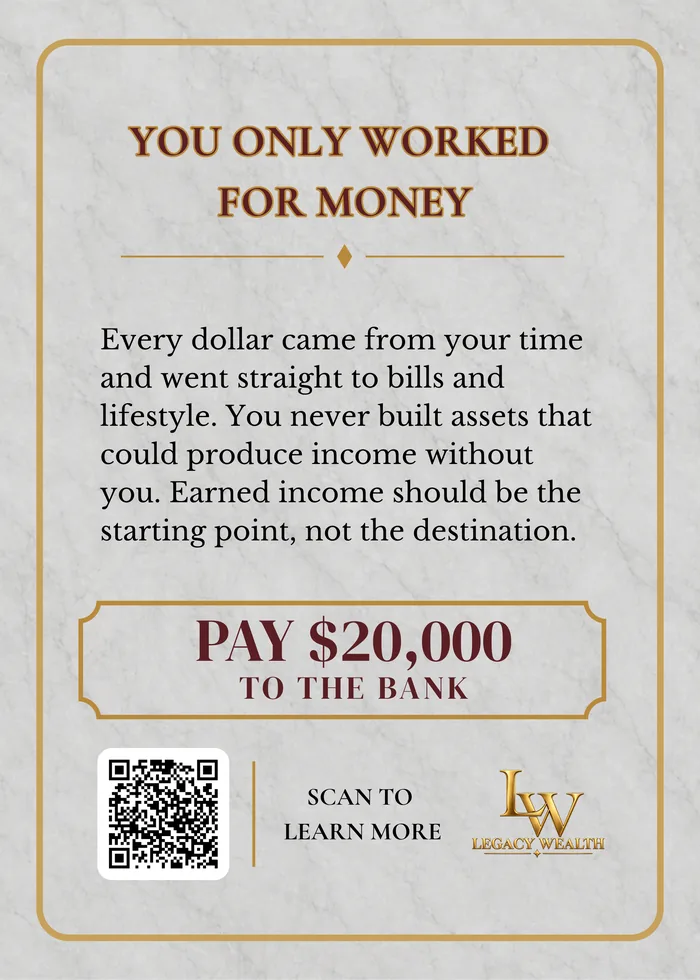
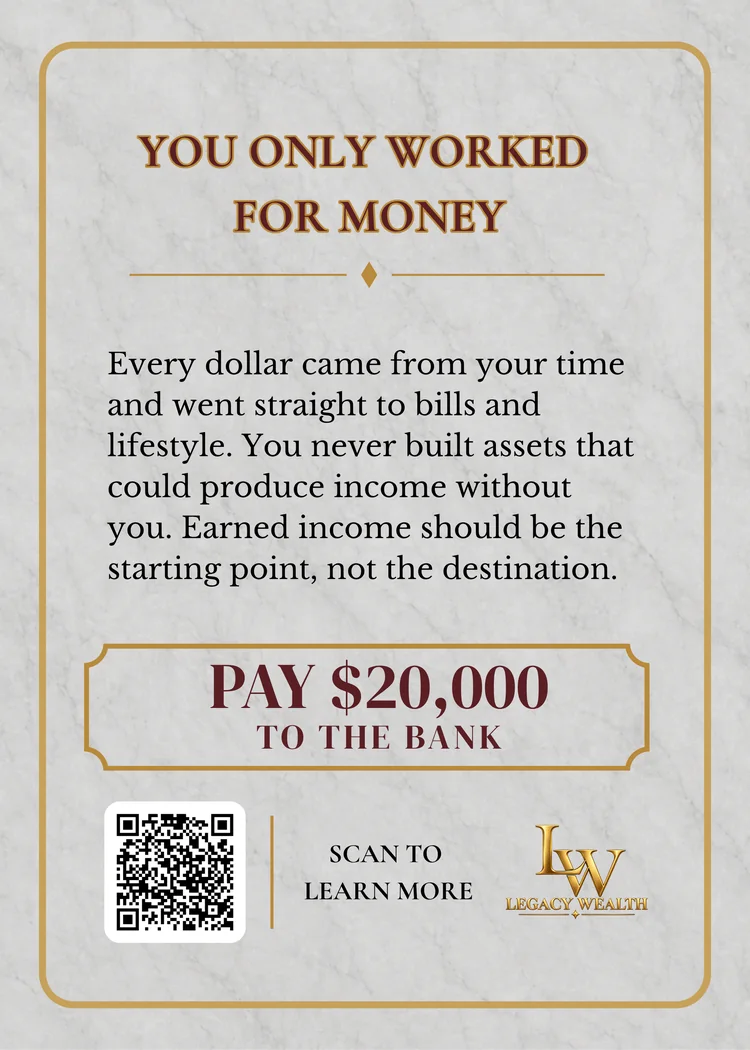
Let people actually examine the components
The components were on the page but too small to read. Sixteen cards at
212px tells a visitor a card exists; it does not tell them what is on it,
which is the whole reason they are on the page.

Cards, notes and the board now open in a lightbox at a size you can read.
Arrow keys and the on-screen arrows move within a family, Escape closes,
focus is trapped while it is open and returns to the thumbnail afterwards,
and the page behind it stops scrolling. Cards are re-exported at 750px —
the asset cards' native width — so the viewer never upscales any of them.

Also on the signup:

- A countdown to November 8th, computed from the visitor's clock and rolled
  forward a year once the date passes, so the page never counts toward a
  date that has already gone by.

- Floating labels on every field, a focus ring in gold, and error styling
  that clears as soon as the person starts fixing it rather than sitting
  there accusing them.

- The confirmation is a panel rather than a text swap: the monogram, their
  first name, and what happens next. Signing up should feel like being let
  in, not like a form clearing.

No signup counter and no spots-remaining bar. Both would have to be
invented, and invented scarcity is a strange thing to put on a page about
financial honesty.

Claude-Session: https://claude.ai/code/session_014BbJfV6pVH9cuG696iWvXi

diff --git a/index.html b/index.html
@@ -347,6 +347,116 @@ a{color:inherit;}
   .box{animation:none;}
   .cards img:hover,.notes img:hover,.token:hover img{transform:none;}
 }
+
+/* ==========================================================================
+   Component lightbox
+   ========================================================================== */
+.zoomable{cursor:zoom-in;}
+.lb{
+  position:fixed;inset:0;z-index:100;display:none;place-items:center;
+  background:rgba(4,4,5,.95);-webkit-backdrop-filter:blur(8px);backdrop-filter:blur(8px);
+  padding:clamp(16px,4vw,48px);
+}
+.lb.open{display:grid;}
+.lb-stage{position:relative;display:grid;place-items:center;gap:18px;max-width:100%;max-height:100%;}
+.lb-stage img{
+  max-width:min(92vw,var(--lb-max,520px));max-height:78vh;width:auto;height:auto;
+  border-radius:5px;box-shadow:0 40px 90px -30px rgba(0,0,0,.95),0 0 0 1px var(--gold-line);
+  animation:lbIn .34s cubic-bezier(.2,.7,.3,1) both;
+}
+@keyframes lbIn{from{opacity:0;transform:scale(.965) translateY(10px);}to{opacity:1;}}
+.lb-cap{text-align:center;max-width:46ch;}
+.lb-cap b{display:block;font-family:var(--serif);font-size:19px;font-weight:600;color:var(--paper);}
+.lb-cap span{display:block;margin-top:5px;font-size:10.5px;letter-spacing:.2em;text-transform:uppercase;color:var(--paper-faint);}
+.lb-btn{
+  position:absolute;top:50%;transform:translateY(-50%);width:50px;height:50px;display:grid;place-items:center;
+  background:rgba(10,10,11,.8);border:1px solid var(--gold-line);border-radius:50%;
+  color:var(--gold-soft);cursor:pointer;transition:background-color .25s,border-color .25s;
+}
+.lb-btn:hover{background:rgba(201,162,76,.16);border-color:var(--gold-soft);}
+.lb-prev{left:max(-70px,-8vw);} .lb-next{right:max(-70px,-8vw);}
+.lb-close{
+  position:fixed;top:22px;right:22px;width:46px;height:46px;display:grid;place-items:center;
+  background:transparent;border:1px solid var(--gold-line);border-radius:50%;
+  color:var(--gold-soft);cursor:pointer;font-size:20px;line-height:1;transition:background-color .25s,border-color .25s;
+}
+.lb-close:hover{background:rgba(201,162,76,.16);border-color:var(--gold-soft);}
+.lb-count{position:fixed;bottom:26px;left:50%;transform:translateX(-50%);
+  font-size:10.5px;letter-spacing:.22em;text-transform:uppercase;color:var(--paper-faint);}
+@media (max-width:760px){
+  .lb-prev{left:2px;} .lb-next{right:2px;}
+  .lb-btn{width:42px;height:42px;}
+  .lb-stage img{max-height:66vh;}
+}
+
+/* ==========================================================================
+   Countdown
+   ========================================================================== */
+.countdown{display:flex;justify-content:center;gap:clamp(18px,4vw,40px);margin:0 0 34px;}
+.cd-unit{text-align:center;min-width:62px;}
+.cd-num{
+  display:block;font-family:var(--serif);font-size:clamp(30px,4.4vw,46px);font-weight:600;line-height:1;
+  background:var(--gold-grad);-webkit-background-clip:text;background-clip:text;color:transparent;
+  font-variant-numeric:tabular-nums;
+}
+.cd-lab{display:block;margin-top:9px;font-size:9.5px;font-weight:600;letter-spacing:.22em;
+  text-transform:uppercase;color:var(--paper-faint);}
+.cd-sep{font-family:var(--serif);font-size:clamp(24px,3.4vw,34px);color:var(--gold-dim);align-self:flex-start;line-height:1.1;}
+.countdown[hidden]{display:none;}
+
+/* ==========================================================================
+   Field craft — floating labels
+   ========================================================================== */
+.field{position:relative;}
+.field input{
+  width:100%;padding:24px 16px 10px;font-size:15px;font-family:var(--sans);color:var(--paper);
+  background:rgba(8,8,9,.62);-webkit-backdrop-filter:blur(10px);backdrop-filter:blur(10px);
+  border:1px solid var(--gold-line);border-radius:2px;outline:none;
+  transition:border-color .25s,box-shadow .25s,background-color .25s;
+}
+.field input:focus{border-color:var(--gold-soft);background:rgba(8,8,9,.78);
+  box-shadow:0 0 0 3px rgba(201,162,76,.13);}
+.field input::placeholder{color:transparent;}
+.field label{
+  position:absolute;left:17px;top:17px;pointer-events:none;
+  font-size:15px;color:var(--paper-faint);
+  transition:top .2s cubic-bezier(.2,.7,.3,1),font-size .2s,letter-spacing .2s,color .2s;
+}
+.field input:focus + label,
+.field input:not(:placeholder-shown) + label{
+  top:8px;font-size:9.5px;font-weight:600;letter-spacing:.17em;text-transform:uppercase;color:var(--gold-soft);
+}
+.field.bad input{border-color:#A6524C;}
+
+/* shimmer across the solid button */
+.btn-solid{position:relative;overflow:hidden;}
+.btn-solid::after{
+  content:"";position:absolute;top:0;left:-130%;width:55%;height:100%;pointer-events:none;
+  background:linear-gradient(100deg,transparent,rgba(255,255,255,.45),transparent);
+  transition:left .65s cubic-bezier(.3,.7,.3,1);
+}
+.btn-solid:hover::after{left:135%;}
+.btn-solid[disabled]::after{display:none;}
+
+/* ==========================================================================
+   Confirmation panel
+   ========================================================================== */
+.form-ok{padding:34px 30px;border:1px solid var(--gold-line);border-radius:3px;text-align:center;
+  background:linear-gradient(170deg,rgba(201,162,76,.09),rgba(8,8,9,.55) 62%);
+  box-shadow:inset 0 1px 0 rgba(232,212,154,.16),0 30px 60px -34px rgba(0,0,0,.9);
+  animation:okIn .5s cubic-bezier(.2,.7,.3,1) both;}
+@keyframes okIn{from{opacity:0;transform:translateY(14px);}to{opacity:1;}}
+.form-ok img{width:58px;height:auto;margin:0 auto 18px;opacity:.95;}
+.form-ok h3{font-family:var(--serif);font-size:27px;font-weight:600;margin:0 0 6px;
+  background:var(--gold-grad);-webkit-background-clip:text;background-clip:text;color:transparent;}
+.form-ok .ok-name{font-size:10.5px;letter-spacing:.22em;text-transform:uppercase;color:var(--gold-soft);margin:0 0 16px;}
+.form-ok p{font-size:14.5px;line-height:1.72;color:var(--paper-dim);margin:0;}
+.form-ok .ok-next{margin-top:20px;padding-top:18px;border-top:1px solid var(--gold-faint);
+  font-size:11px;letter-spacing:.14em;text-transform:uppercase;color:var(--paper-faint);line-height:1.9;}
+@media (prefers-reduced-motion:reduce){
+  .lb-stage img,.form-ok{animation:none;}
+  .btn-solid::after{display:none;}
+}
 </style>
 </head>
 <body>
@@ -412,18 +522,28 @@ a{color:inherit;}
           </div>
 
           <div class="more-fields" id="heroMore" hidden>
-            <input type="text" name="name" placeholder="Full name" autocomplete="name" required>
-            <input type="tel" name="phone" placeholder="Phone number (optional)" autocomplete="tel" inputmode="tel">
+            <div class="field">
+              <input type="text" id="heroName" name="name" placeholder=" " autocomplete="name" required>
+              <label for="heroName">Full name</label>
+            </div>
+            <div class="field">
+              <input type="tel" id="heroPhone" name="phone" placeholder=" " autocomplete="tel" inputmode="tel">
+              <label for="heroPhone">Phone number (optional)</label>
+            </div>
             <p class="optional">We only use your number for launch-day updates.</p>
-            <button type="button" class="btn btn-solid" data-role="finish">Confirm My Spot</button>
+            <button type="button" class="btn btn-solid" data-role="finish" data-label="Confirm My Spot">Confirm My Spot</button>
           </div>
 
           <p class="form-error" id="heroError" role="alert" hidden></p>
         </form>
 
         <div class="form-ok" id="heroOk">
+          <img src="assets/images/logo-monogram.webp" alt="" width="320" height="317">
           <h3>You're on the list</h3>
-          <p>Thank you for joining. We'll email you the moment Legacy Wealth opens for preorder, and you'll be first in line.</p>
+          <p class="ok-name" data-ok-name></p>
+          <p>Your place is held. We'll email you the moment Legacy Wealth opens for
+            preorder on November 8th, and you'll be first in line.</p>
+          <p class="ok-next">Watch your inbox &middot; Add us to your contacts</p>
         </div>
 
         <p class="caps-note">Be the first to know. A brighter financial future starts at home.</p>
@@ -733,6 +853,16 @@ a{color:inherit;}
       <p class="eyebrow">Join the Waitlist</p>
       <h2 class="display gilt">Be First in Line</h2>
       <div class="rule" style="margin-left:auto;margin-right:auto;"></div>
+      <div class="countdown" id="countdown" hidden aria-label="Time until preorders open">
+        <div class="cd-unit"><b class="cd-num" data-cd="days">--</b><span class="cd-lab">Days</span></div>
+        <span class="cd-sep">:</span>
+        <div class="cd-unit"><b class="cd-num" data-cd="hours">--</b><span class="cd-lab">Hours</span></div>
+        <span class="cd-sep">:</span>
+        <div class="cd-unit"><b class="cd-num" data-cd="minutes">--</b><span class="cd-lab">Minutes</span></div>
+        <span class="cd-sep">:</span>
+        <div class="cd-unit"><b class="cd-num" data-cd="seconds">--</b><span class="cd-lab">Seconds</span></div>
+      </div>
+
       <p class="urgency">Preorders open November 8th. Join the waitlist now to be notified the moment it
         goes live — and be first in line.</p>
 
@@ -742,9 +872,18 @@ a{color:inherit;}
             <label>Company <input name="company" tabindex="-1" autocomplete="off"></label>
           </div>
           <div class="more-fields" style="margin-top:0;">
-            <input type="text" name="name" placeholder="Full name" autocomplete="name" required>
-            <input type="email" name="email" placeholder="Email address" autocomplete="email" required>
-            <input type="tel" name="phone" placeholder="Phone number (optional)" autocomplete="tel" inputmode="tel">
+            <div class="field">
+              <input type="text" id="mainName" name="name" placeholder=" " autocomplete="name" required>
+              <label for="mainName">Full name</label>
+            </div>
+            <div class="field">
+              <input type="email" id="mainEmail" name="email" placeholder=" " autocomplete="email" required>
+              <label for="mainEmail">Email address</label>
+            </div>
+            <div class="field">
+              <input type="tel" id="mainPhone" name="phone" placeholder=" " autocomplete="tel" inputmode="tel">
+              <label for="mainPhone">Phone number (optional)</label>
+            </div>
             <p class="optional">Phone is optional. We only use it for launch-day updates.</p>
             <button type="submit" class="btn btn-solid" data-label="Claim Early Access">Claim Early Access</button>
           </div>
@@ -752,8 +891,12 @@ a{color:inherit;}
         </form>
 
         <div class="form-ok" id="mainOk">
+          <img src="assets/images/logo-monogram.webp" alt="" width="320" height="317">
           <h3>You're on the list</h3>
-          <p>Thank you for joining. We'll email you the moment Legacy Wealth opens for preorder, and you'll be first in line.</p>
+          <p class="ok-name" data-ok-name></p>
+          <p>Your place is held. We'll email you the moment Legacy Wealth opens for
+            preorder on November 8th, and you'll be first in line.</p>
+          <p class="ok-next">Watch your inbox &middot; Add us to your contacts</p>
         </div>
       </div>
 
@@ -763,6 +906,21 @@ a{color:inherit;}
 </section>
 
 </main>
+
+<div class="lb" id="lightbox" role="dialog" aria-modal="true" aria-label="Component viewer" hidden>
+  <button class="lb-close" id="lbClose" aria-label="Close viewer">&times;</button>
+  <div class="lb-stage">
+    <button class="lb-btn lb-prev" id="lbPrev" aria-label="Previous">
+      <svg width="17" height="17" viewBox="0 0 24 24" fill="none" stroke="currentColor" stroke-width="1.7"><path d="M15 5 8 12l7 7"/></svg>
+    </button>
+    <img id="lbImg" alt="">
+    <p class="lb-cap"><b id="lbTitle"></b><span id="lbGroup"></span></p>
+    <button class="lb-btn lb-next" id="lbNext" aria-label="Next">
+      <svg width="17" height="17" viewBox="0 0 24 24" fill="none" stroke="currentColor" stroke-width="1.7"><path d="m9 5 7 7-7 7"/></svg>
+    </button>
+  </div>
+  <p class="lb-count" id="lbCount"></p>
+</div>
 
 <footer class="site-foot">
   <div class="shell">
@@ -854,6 +1012,8 @@ a{color:inherit;}
             err.fromServer = true;      /* safe to show; we wrote the copy */
             throw err;
           }
+          var slot = successCard.querySelector('[data-ok-name]');
+          if (slot) { slot.textContent = payload.name.split(/\s+/)[0]; }
           form.style.display = 'none';
           successCard.classList.add('show');
           successCard.setAttribute('tabindex', '-1');
@@ -912,6 +1072,159 @@ a{color:inherit;}
     e.preventDefault();
     post(mainForm, mainBtn, mainError, mainOk);
   });
+
+  /* ---- clear the error styling as soon as they start fixing it ---- */
+  document.querySelectorAll('.field input').forEach(function (input) {
+    input.addEventListener('input', function () { input.parentNode.classList.remove('bad'); });
+  });
+
+  /* ==========================================================================
+     Countdown to preorder
+     ========================================================================== */
+  (function () {
+    var box = document.getElementById('countdown');
+    if (!box) { return; }
+    var cells = {};
+    box.querySelectorAll('[data-cd]').forEach(function (el) { cells[el.getAttribute('data-cd')] = el; });
+
+    /* November 8th of whichever year it next falls in, so the page does not
+       start counting to a date in the past once this year's launch passes. */
+    function target() {
+      var now = new Date();
+      var d = new Date(now.getFullYear(), 10, 8, 0, 0, 0);
+      if (d - now <= 0) { d = new Date(now.getFullYear() + 1, 10, 8, 0, 0, 0); }
+      return d;
+    }
+
+    var when = target();
+    function pad(n) { return n < 10 ? '0' + n : String(n); }
+
+    function tick() {
+      var left = when - new Date();
+      if (left <= 0) { box.hidden = true; return; }
+      var s = Math.floor(left / 1000);
+      cells.days.textContent = Math.floor(s / 86400);
+      cells.hours.textContent = pad(Math.floor(s / 3600) % 24);
+      cells.minutes.textContent = pad(Math.floor(s / 60) % 60);
+      cells.seconds.textContent = pad(s % 60);
+      box.hidden = false;
+    }
+    tick();
+    setInterval(tick, 1000);
+  })();
+
+  /* ==========================================================================
+     Component lightbox
+     ========================================================================== */
+  (function () {
+    var lb = document.getElementById('lightbox');
+    if (!lb) { return; }
+    var img = document.getElementById('lbImg');
+    var title = document.getElementById('lbTitle');
+    var groupLabel = document.getElementById('lbGroup');
+    var counter = document.getElementById('lbCount');
+    var prev = document.getElementById('lbPrev');
+    var next = document.getElementById('lbNext');
+    var close = document.getElementById('lbClose');
+
+    var groups = [];    /* [{ label, max, items: [{src, alt, title}] }] */
+    var current = null;
+    var index = 0;
+    var opener = null;
+
+    function register(figures, label, max, titleOf) {
+      if (!figures.length) { return; }
+      var group = { label: label, max: max, items: [] };
+      groups.push(group);
+      figures.forEach(function (fig) {
+        var picture = fig.tagName === 'IMG' ? fig : fig.querySelector('img');
+        if (!picture) { return; }
+        var at = group.items.length;
+        group.items.push({ src: picture.currentSrc || picture.src, alt: picture.alt, title: titleOf(fig) });
+        picture.classList.add('zoomable');
+        picture.setAttribute('role', 'button');
+        picture.setAttribute('tabindex', '0');
+        picture.addEventListener('click', function () { open(group, at, picture); });
+        picture.addEventListener('keydown', function (e) {
+          if (e.key === 'Enter' || e.key === ' ') { e.preventDefault(); open(group, at, picture); }
+        });
+      });
+    }
+
+    function capOf(fig) {
+      var cap = fig.querySelector('figcaption');
+      if (!cap) { return ''; }
+      /* the notes caption carries the denomination in an <em>; the name is the
+         text in front of it */
+      var em = cap.querySelector('em');
+      return (em ? cap.childNodes[0].textContent : cap.textContent).trim();
+    }
+
+    document.querySelectorAll('.deck').forEach(function (deck) {
+      var heading = deck.querySelector('.deck-head h3');
+      register(Array.prototype.slice.call(deck.querySelectorAll('.cards figure')),
+        heading ? heading.textContent.trim() : 'Cards', 520, capOf);
+    });
+    register(Array.prototype.slice.call(document.querySelectorAll('.notes figure')),
+      'Legacy Wealth Notes', 920, capOf);
+    register(Array.prototype.slice.call(document.querySelectorAll('.mat-frame img')),
+      'The Game Board', 900, function () { return 'The Playing Board'; });
+
+    function paint() {
+      var item = current.items[index];
+      img.src = item.src;
+      img.alt = item.alt;
+      title.textContent = item.title;
+      groupLabel.textContent = current.label;
+      lb.style.setProperty('--lb-max', current.max + 'px');
+      var many = current.items.length > 1;
+      prev.hidden = next.hidden = !many;
+      counter.textContent = many ? (index + 1) + ' of ' + current.items.length : '';
+    }
+
+    function open(group, at, from) {
+      opener = from;
+      current = group;
+      index = at;
+      paint();
+      lb.hidden = false;
+      lb.classList.add('open');
+      document.body.style.overflow = 'hidden';
+      close.focus();
+    }
+
+    function shut() {
+      lb.classList.remove('open');
+      lb.hidden = true;
+      document.body.style.overflow = '';
+      if (opener) { opener.focus(); opener = null; }
+    }
+
+    function step(by) {
+      if (!current) { return; }
+      index = (index + by + current.items.length) % current.items.length;
+      paint();
+    }
+
+    close.addEventListener('click', shut);
+    prev.addEventListener('click', function () { step(-1); });
+    next.addEventListener('click', function () { step(1); });
+    /* click the backdrop, but not the artwork or the controls */
+    lb.addEventListener('click', function (e) { if (e.target === lb) { shut(); } });
+    document.addEventListener('keydown', function (e) {
+      if (lb.hidden) { return; }
+      if (e.key === 'Escape') { shut(); }
+      else if (e.key === 'ArrowLeft') { step(-1); }
+      else if (e.key === 'ArrowRight') { step(1); }
+      else if (e.key === 'Tab') {
+        /* keep focus inside the dialog while it is open */
+        var stops = [close, prev, next].filter(function (el) { return !el.hidden; });
+        var at = stops.indexOf(document.activeElement);
+        e.preventDefault();
+        stops[(at + (e.shiftKey ? -1 : 1) + stops.length) % stops.length].focus();
+      }
+    });
+  })();
 })();
 </script>
 </body>
